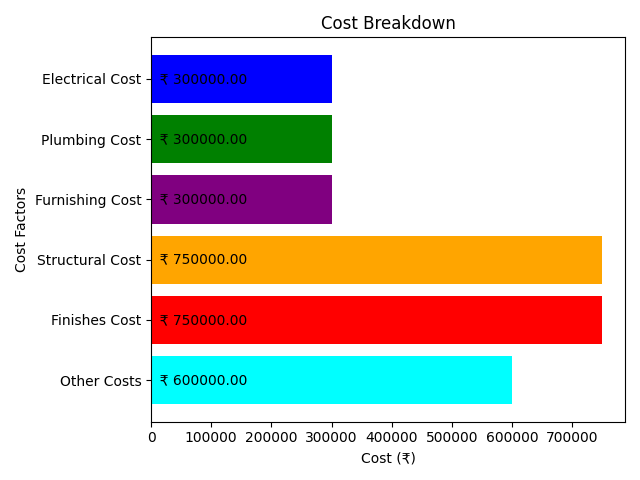
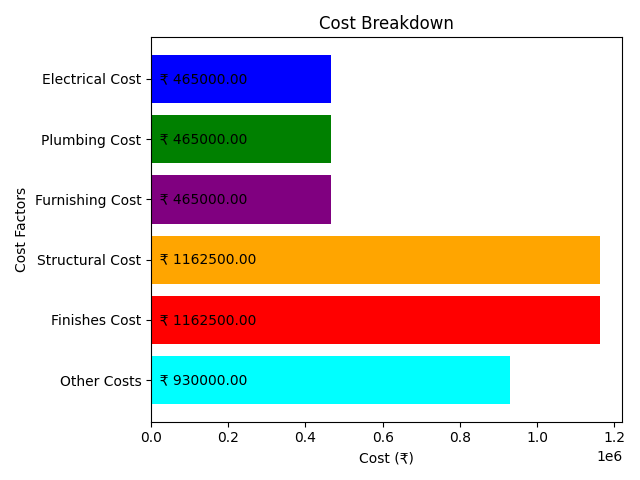
added building type

diff --git a/pie/templates/pie/result.html b/pie/templates/pie/result.html
@@ -4,29 +4,28 @@
 {% include "../base/navbar.html" %}
 <div class="container">
     <h1>Result</h1>
-        <h2>For a total area of {{ area }} square feet under {{ cost_choice }} budgeting, it will cost Rs.{{ cost }}, calculated as Rs. {{ cost_factor }} per square feet, and the cost breakdown is shown below.</h2>
+        <p>For a total area of <strong class="bold-value">{{ area }}</strong> square feet under <strong class="bold-value">{{ cost_choice }}</strong> budgeting for a <strong class="bold-value">{{ occupancy }}</strong> building, it will cost <strong class="bold-value">Rs.{{ cost }}</strong>, calculated as <strong class="bold-value">Rs. {{ cost_factor }}</strong> per square feet, and the cost breakdown is shown below.</p>
     {% load static %}
     <canvas id="costSplitChart"></canvas>
 
     
     <script src="https://cdn.jsdelivr.net/npm/chart.js"></script>
     <!-- <script src="{% static 'main.js' %}"></script> -->
-    <script>
+    <script type="text/javascript">    
         var costSplitLabel = {{ cost_split_label|safe }};
         var costSplitData = {{ cost_split|safe }};
-
-        // Prefix the rupee symbol to Y-axis tick labels
+        
+        // Prefix the rupee symbol to Y-axis tick labels and add commas
         function formatRupee(value) {
-            return '\u20B9' + value;
+            return '\u20B9' + value.toString().replace(/\B(?=(\d{3})+(?!\d))/g, ",");
         }
-
+    
         var ctx = document.getElementById('costSplitChart').getContext('2d');
         var myChart = new Chart(ctx, {
             type: 'bar',
             data: {
                 labels: costSplitLabel,
                 datasets: [{
-                    label: 'Cost Split',
                     data: costSplitData,
                     backgroundColor: [
                         'rgba(255, 99, 132, 0.2)',
@@ -48,6 +47,18 @@
                 }]
             },
             options: {
+                plugins: {
+                    legend: {
+                        display: false // Hide the legend
+                    },
+                    tooltip: {
+                        callbacks: {
+                            label: function(context) {
+                                return formatRupee(context.parsed.y);
+                            }
+                        }
+                    }
+                },
                 scales: {
                     y: {
                         beginAtZero: true,
@@ -61,5 +72,11 @@
             }
         });
     </script>
+    <button type="button" class="btn btn-dark rounded-pill fs-8 fw-500">
+        <a href="{% url 'home' %}" style="text-decoration: none; color: white;">
+        Try another!
+
+    </button>
+    
 </div>
 {% endblock %}

diff --git a/pie/templates/base/base.html b/pie/templates/base/base.html
@@ -6,7 +6,7 @@
     <meta name="viewport" content="width=device-width, initial-scale=1">
     <title>Modelflick</title>
     <link href="https://cdn.jsdelivr.net/npm/bootstrap@5.3.1/dist/css/bootstrap.min.css" rel="stylesheet" integrity="sha384-4bw+/aepP/YC94hEpVNVgiZdgIC5+VKNBQNGCHeKRQN+PtmoHDEXuppvnDJzQIu9" crossorigin="anonymous">
-    <link rel="stylesheet" href="{% static 'css/main.css' %}">
+    <link rel="stylesheet" href="{% static 'pie/css/main.css' %}">
     <!-- Google tag (gtag.js) -->
     <script async src="https://www.googletagmanager.com/gtag/js?id=G-W5MZBSCF4M"></script>
     <script>

diff --git a/pie/templates/pie/tools.html b/pie/templates/pie/tools.html
@@ -10,7 +10,10 @@
 <form method="post">
     {% csrf_token %}
     {{ form.as_p }}
-    <button type="submit">Submit</button>
+    <button type="submit" class="btn btn-dark rounded-pill fs-8 fw-500">
+        Submit
+
+    </button>
 </form>
 </div>
 {% endblock content %}

diff --git a/pie/static/pie/css/main.css b/pie/static/pie/css/main.css
@@ -7,10 +7,16 @@
 }
 
 html,
-body {
+h1 {
     font-family: 'Ysabeau Infant', sans-serif;
+    color: red;
     
 }
+
+.bold-value {
+    font-weight: bold;
+    font-size: x-large;
+  }
 
 .fw-500{
     font-weight: 500 !important;

diff --git a/pie/views.py b/pie/views.py
@@ -76,6 +76,7 @@ def tools(request):
             cleaned_data = form.cleaned_data
             cost_choice = cleaned_data['cost_choice']
             area = cleaned_data['area']
+            occupancy = cleaned_data['occupancy']
 
             cost_factors = {
                 'Ultra Low Cost': 2000,
@@ -120,13 +121,32 @@ def r(request):
     if first_costfinder_entry and first_costfinder_entry.image:
         area = first_costfinder_entry.area
         cost_choice = first_costfinder_entry.cost_choice
-        cost_factors = {
-                'Ultra Low Cost': 2000,
-                'Low Cost': 2500,
-                'Medium': 3000,
-                'Luxury': 3500,
-                'Ultra Luxury': 4000,
-                }
+        occupancy = first_costfinder_entry.occupancy
+        if occupancy == 'Residential':
+            cost_factors = {
+                'Ultra Low Cost': 1000,
+                'Low Cost': 1500,
+                'Medium': 2400,
+                'Luxury': 2800,
+                'Ultra Luxury': 3500,
+            }
+        elif occupancy == 'Commercial':
+            cost_factors = {
+                'Ultra Low Cost': 500,
+                'Low Cost':1000,
+                'Medium': 1500,
+                'Luxury': 2000,
+                'Ultra Luxury': 3000,
+            }
+        else:
+            cost_factors = {
+                'Ultra Low Cost': 1500,
+                'Low Cost': 2000,
+                'Medium': 2500,
+                'Luxury': 3000,
+                'Ultra Luxury': 3500,
+            }
+
         cost = cost_factors[cost_choice] * area
         cost_split_label = ['Electrical Cost', 'Plumbing Cost', 'Furnishing Cost', 'Structural Cost', 'Finishes Cost', 'Other Costs']
         cost_split = [0.10 * cost, 0.10 * cost, 0.10 * cost, 0.25 * cost, 0.25 * cost, 0.20 * cost]
@@ -144,7 +164,7 @@ def r(request):
         'cost_choice': cost_choice,
         'cost_split' : cost_split,
         'cost_split_label' : cost_split_label,
-        'image_url': image_url,
+        'occupancy' : occupancy,
     }
 
     return render(request, 'pie/result.html', context)

diff --git a/pie/forms.py b/pie/forms.py
@@ -7,12 +7,15 @@ class CostfinderForm(forms.ModelForm):
         fields = [
             'area',
             'cost_choice',
+            'occupancy',
         ]
         labels = {
             'area': 'Total Built-up Area (sq.ft)',  # Change 'Custom Area Label' to your desired label
             'cost_choice': 'Budgeting',  # Change 'Custom Cost Choice Label' to your desired label
+            'occupancy': 'Building Type'
         }
         widgets = {
             'cost_choice': forms.RadioSelect,  # Use the RadioSelect widget for cost_choice field
+            'occupancy': forms.RadioSelect,
         }
     

diff --git a/pie/models.py b/pie/models.py
@@ -9,8 +9,13 @@ class Costfinder(models.Model):
         ('Luxury', 'Luxury'),
         ('Ultra Luxury', 'Ultra Luxury'),
     ]
+    OCCUPANCIES = [
+        ('Residence', 'Residence'),
+        ('Commercial', 'Commercial'),
+    ]
 
     cost_choice = models.CharField(max_length=20, choices=COST_CHOICES,  default='Medium')
+    occupancy = models.CharField(max_length=50, choices=OCCUPANCIES,  default='Residence')
     area = models.PositiveIntegerField(validators=[MinValueValidator(1)])
     image = models.ImageField(upload_to='default/image.png', default='image.png')
 

diff --git a/pie/migrations/0013_costfinder_occupancy.py b/pie/migrations/0013_costfinder_occupancy.py
@@ -1,0 +1,18 @@
+# Generated by Django 4.2.4 on 2023-08-19 06:00
+
+from django.db import migrations, models
+
+
+class Migration(migrations.Migration):
+
+    dependencies = [
+        ('pie', '0012_alter_costfinder_cost_choice'),
+    ]
+
+    operations = [
+        migrations.AddField(
+            model_name='costfinder',
+            name='occupancy',
+            field=models.CharField(choices=[('Residence', 'Residence'), ('Commercial', 'Commercial')], default='Residence', max_length=50),
+        ),
+    ]

diff --git a/piechart/settings.py b/piechart/settings.py
@@ -119,7 +119,7 @@ USE_TZ = True
 # https://docs.djangoproject.com/en/4.2/howto/static-files/
 
 STATIC_URL = 'static/'
-# STATICFILES_DIRS = [BASE_DIR / 'pie/static'] #uncoment in debug mode
+# STATICFILES_DIRS = [os.path.join(BASE_DIR ,'pie', 'static')] #uncoment in debug mode
 
 STATIC_ROOT = os.path.join(BASE_DIR, 'static/') #uncomment in production mode
 # Default primary key field type
